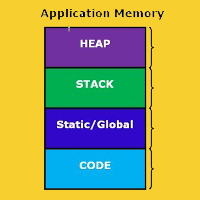
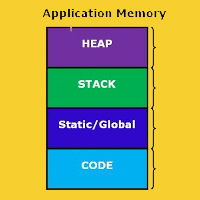
Alignment fixed.

diff --git a/_posts/2012-05-08-text-data-bss.md b/_posts/2012-05-08-text-data-bss.md
@@ -10,9 +10,9 @@ comments: true
 When you compile your firmware application have you seen something like this in your console? 
 
 ![console output](/img/text/empty_file_size.png){: .center-block :}
-Console output from STM32CubeIDE
+<center>Console output from STM32CubeIDE</center>
 
-Have you ever wondered what in the world are `text`, `data`, `bss`, and `dec` stand for? Well, you are in for a treat once I explain those.
+Have you ever wondered what in the world are `text`, `data`, `bss`, and `dec` stand for? Well, you are in for a treat.
 
 ## Memory Layout of a C program
 A typical memory map of a C program consists of the following sections.
@@ -26,31 +26,31 @@ A typical memory map of a C program consists of the following sections.
 ![memory map](/img/text/memory.png){: .center-block :}
 
 ### Text Segment (.text)
-A text segment, also known as a code segment, is the memory section where executable instructions (i.e. your code) lives. This segment ends up in FLASH. From the console output above I can see `text` occupies 544 bytes for my `simple_example` code. This is what my `simple_example` code look like:
+A text segment, also known as a code segment, is the memory section where executable instructions (i.e. your code) lives. This segment ends up in FLASH. From the console output above I can see `.text` occupies 544 bytes for my `simple_example` code. This is what my `simple_example` code look like:
 
 
 ![Empty code](/img/text/blank_code.png){: .center-block :}
 
-Let's add some more code to see if my `text` size changes:
+Let's add some more code to see if my `.text` size changes:
 
 ![fizzbuzz added](/img/text/fizz_buzz.png){: .center-block :}
 
 
-Aha! The `text` size increased 24-bytes. If you check the map file you'll see the function is added under the `.text` section:
+Aha! The `.text` size increased 24-bytes. If you check the map file you'll see the function is added under the `.text` section:
 
 ![map file](/img/text/map_file.png){: .center-block :}
 
 ![fizzbuzz map](/img/text/fizzbuzz_map.png){: .center-block :}
 
-If you have `const` variable, that will be added under `.text` i.e. they will be saved in FLASH. Here is an example:
+If you have `const` variable, that will be added under `.text` and will be saved in FLASH. Here is an example:
 
 ![const](/img/text/const.png){: .center-block :}
 
-The `text` size increased by 4-bytes (char takes 1 byte, the array size is 4).
+The `.text` size increased by 4-bytes (`char` takes 1 byte, the array size is 4).
 
 
 ### Initialized Data segment (.data)
-A data segment (`.data`) contains the global variables and static variables that are **initialized** and lives on top of `text`. To see an example let's add a global variable into our code:
+A data segment (`.data`) contains the global variables and static variables that are **initialized** and starts right after `.text`. To see an example let's add a global variable into our code:
 
 ![data](/img/text/data.png){: .center-block :}
 
@@ -77,8 +77,8 @@ Uninitialized data segment or `bss` segment, named after an ancient assembler op
 
 In a nutshell:
 
-- ‘text’ is your code, and constants (and also the vector table).
+- ‘*text*’ is your code, and constants (and also the vector table).
 
-- ‘data’ is for initialized variables. This is count towards both RAM and FLASH. The initialized value allocates space in FLASH which then is copied from ROM to RAM in the startup code.
+- ‘*data*’ is for initialized variables. This is count towards both RAM and FLASH. The initialized value allocates space in FLASH which then is copied from ROM to RAM in the startup code.
 
-- ‘bss’ is for the uninitialized data in RAM which is initialized with zero in the startup code.
+- ‘*bss*’ is for the uninitialized data in RAM which is initialized with zero in the startup code.
